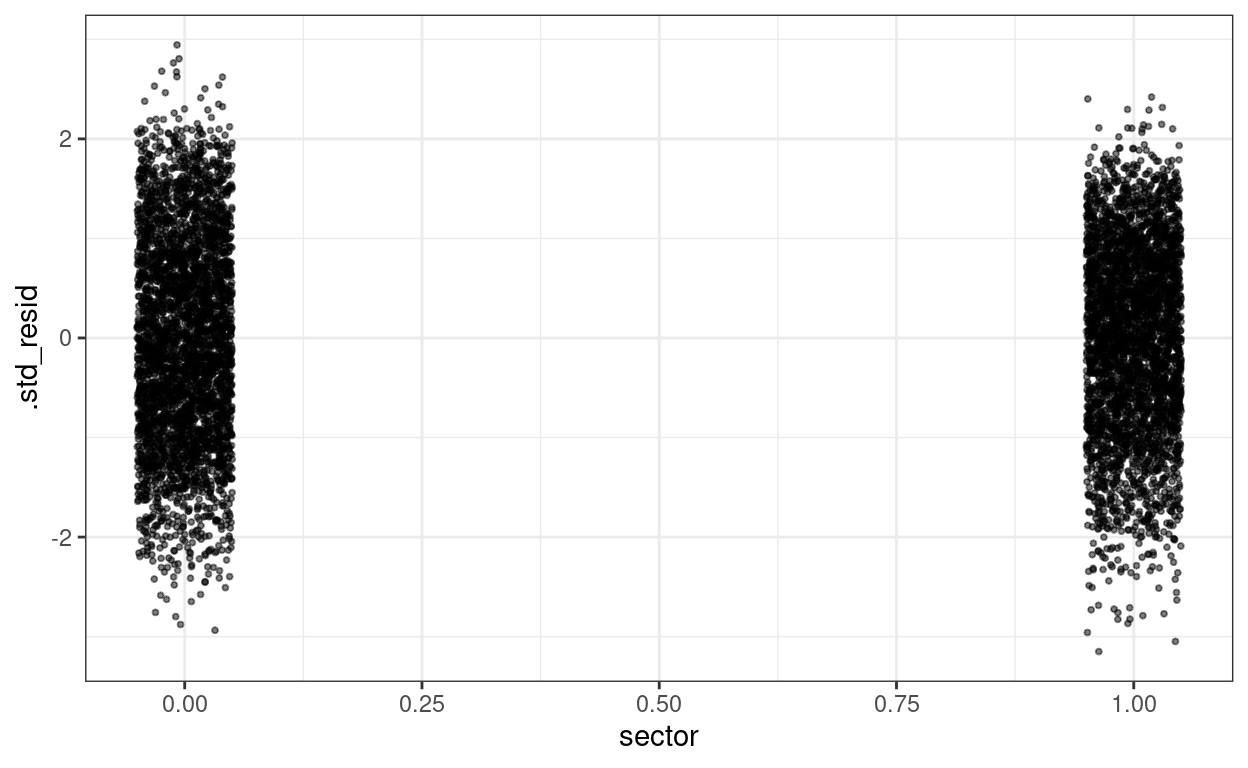
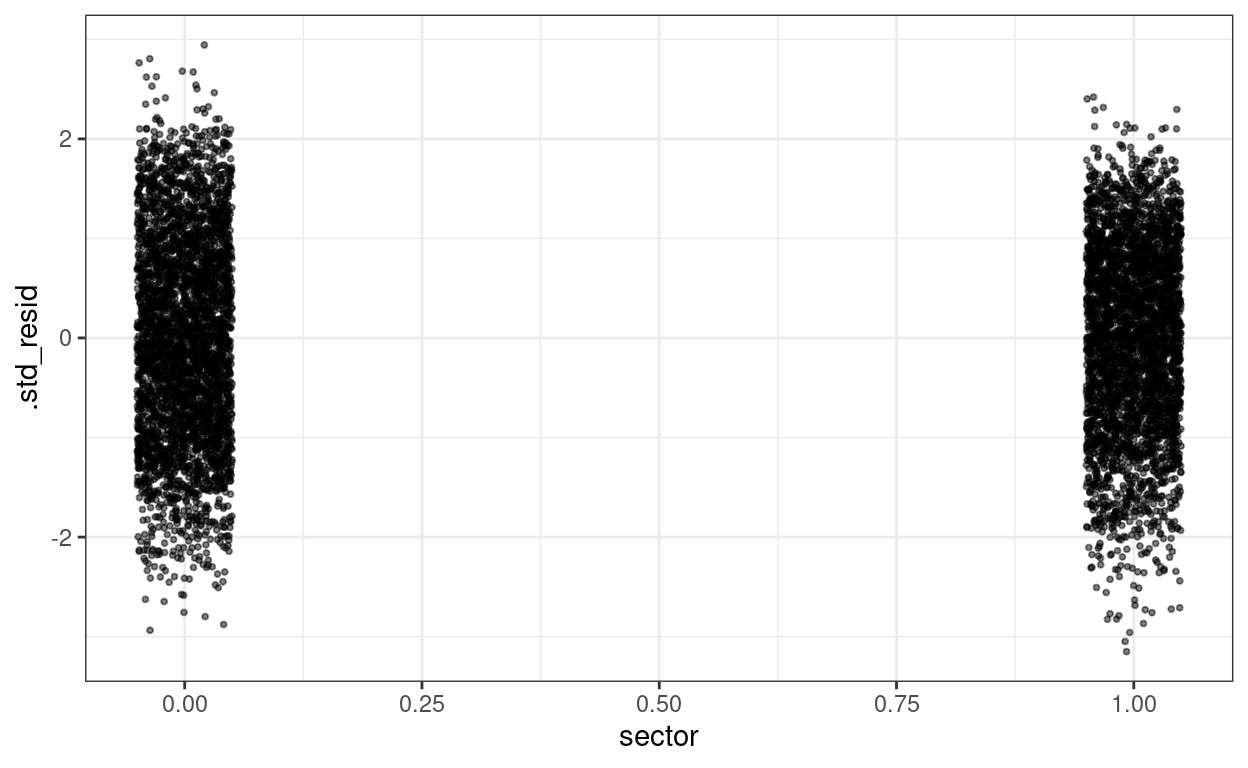
Update materials for heteroscedasticity

Changed region(s): [[0.8438, 0.125, 0.9688, 0.875], [0.0938, 0.0625, 0.1875, 0.8125]]

diff --git a/_site/rcode6.html b/_site/rcode6.html
@@ -2142,6 +2142,8 @@ R Codes
 <li><a href="#residuals-across-clusters">Residuals across clusters</a></li>
 <li><a href="#level-1-residuals-across-predictors">Level-1 residuals across predictors</a></li>
 <li><a href="#level-2-residuals-across-lv-2-predictors">Level-2 residuals across lv-2 predictors</a></li>
+<li><a href="#bonus-modeling-heteroscedastisticity">Bonus: Modeling heteroscedastisticity</a></li>
+<li><a href="#bonus-heteroscedasticity-consistent-hc-variance-estimates">Bonus: Heteroscedasticity-consistent (HC) variance estimates</a></li>
 <li><a href="#q-q-plot-for-lv-1-residuals">Q-Q Plot for Lv-1 Residuals</a></li>
 <li><a href="#q-q-plot-for-lv-2-residuals">Q-Q Plot for Lv-2 Residuals</a></li>
 </ul></li>
@@ -2452,6 +2454,292 @@ R Codes
 </div>
 <p><img src="rcode6_files/figure-html5/resid-lv2-2.png" width="624" /></p>
 </div>
+<h3 id="bonus-modeling-heteroscedastisticity">Bonus: Modeling heteroscedastisticity</h3>
+<p>You can model <span class="math inline">\(\log(\sigma_{ij}) = \gamma^{s}_{00} + \gamma^{s}_{10} x_{ij} + \gamma^{s}_{01} w_{j}\)</span></p>
+<p>Let’s model the variance as a function of <code>sector</code>.</p>
+<div class="layout-chunk" data-layout="l-body">
+<div class="sourceCode">
+<pre class="sourceCode r"><code class="sourceCode r"><span class='kw'><a href='https://rdrr.io/r/base/library.html'>library</a></span><span class='op'>(</span><span class='va'><a href='https://github.com/glmmTMB/glmmTMB'>glmmTMB</a></span><span class='op'>)</span>
+<span class='co'># Assume homoscedasticity</span>
+<span class='va'>m3_tmb</span> <span class='op'>&lt;-</span> <span class='fu'><a href='https://rdrr.io/pkg/glmmTMB/man/glmmTMB.html'>glmmTMB</a></span><span class='op'>(</span><span class='va'>mathach</span> <span class='op'>~</span> <span class='va'>sector</span> <span class='op'>+</span> <span class='va'>ses</span> <span class='op'>+</span> <span class='va'>ses_cm</span> <span class='op'>+</span> <span class='op'>(</span><span class='va'>ses</span> <span class='op'>|</span> <span class='va'>id</span><span class='op'>)</span>,
+  data <span class='op'>=</span> <span class='va'>hsball</span>
+<span class='op'>)</span>
+<span class='co'># Modeling heteroscedasticity</span>
+<span class='va'>m3_heter_tmb</span> <span class='op'>&lt;-</span> <span class='fu'><a href='https://rdrr.io/pkg/glmmTMB/man/glmmTMB.html'>glmmTMB</a></span><span class='op'>(</span>
+  <span class='va'>mathach</span> <span class='op'>~</span> <span class='va'>sector</span> <span class='op'>+</span> <span class='va'>ses</span> <span class='op'>+</span> <span class='va'>ses_cm</span> <span class='op'>+</span> <span class='op'>(</span><span class='va'>ses</span> <span class='op'>|</span> <span class='va'>id</span><span class='op'>)</span>,
+  dispformula <span class='op'>=</span> <span class='op'>~</span> <span class='va'>sector</span>,  <span class='co'># difference variance for different sectors</span>
+  data <span class='op'>=</span> <span class='va'>hsball</span>
+<span class='op'>)</span>
+<span class='fu'><a href='https://rdrr.io/r/base/summary.html'>summary</a></span><span class='op'>(</span><span class='va'>m3_heter_tmb</span><span class='op'>)</span>  <span class='co'># catholic school has a larger variance</span>
+</code></pre>
+</div>
+<pre><code>&gt;#  Family: gaussian  ( identity )
+&gt;# Formula:          mathach ~ sector + ses + ses_cm + (ses | id)
+&gt;# Dispersion:               ~sector
+&gt;# Data: hsball
+&gt;# 
+&gt;#      AIC      BIC   logLik deviance df.resid 
+&gt;#  46531.3  46593.2 -23256.6  46513.3     7176 
+&gt;# 
+&gt;# Random effects:
+&gt;# 
+&gt;# Conditional model:
+&gt;#  Groups   Name        Variance Std.Dev. Corr 
+&gt;#  id       (Intercept) 2.372    1.5402        
+&gt;#           ses         0.458    0.6767   0.21 
+&gt;#  Residual                NA        NA        
+&gt;# Number of obs: 7185, groups:  id, 160
+&gt;# 
+&gt;# Conditional model:
+&gt;#             Estimate Std. Error z value Pr(&gt;|z|)    
+&gt;# (Intercept)  12.0682     0.2189   55.12  &lt; 2e-16 ***
+&gt;# sector        1.3528     0.3609    3.75 0.000178 ***
+&gt;# ses           2.1476     0.1227   17.51  &lt; 2e-16 ***
+&gt;# ses_cm        3.2171     0.3982    8.08 6.55e-16 ***
+&gt;# ---
+&gt;# Signif. codes:  0 &#39;***&#39; 0.001 &#39;**&#39; 0.01 &#39;*&#39; 0.05 &#39;.&#39; 0.1 &#39; &#39; 1
+&gt;# 
+&gt;# Dispersion model:
+&gt;#             Estimate Std. Error z value Pr(&gt;|z|)    
+&gt;# (Intercept)  3.69133    0.02391  154.40  &lt; 2e-16 ***
+&gt;# sector      -0.18333    0.03400   -5.39 6.96e-08 ***
+&gt;# ---
+&gt;# Signif. codes:  0 &#39;***&#39; 0.001 &#39;**&#39; 0.01 &#39;*&#39; 0.05 &#39;.&#39; 0.1 &#39; &#39; 1</code></pre>
+<div class="sourceCode">
+<pre class="sourceCode r"><code class="sourceCode r"><span class='co'># Compare the two models</span>
+<span class='fu'><a href='https://rdrr.io/r/stats/anova.html'>anova</a></span><span class='op'>(</span><span class='va'>m3_tmb</span>, <span class='va'>m3_heter_tmb</span><span class='op'>)</span>  <span class='co'># the heteroscedastic model has a better deviance</span>
+</code></pre>
+</div>
+<pre><code>&gt;# Data: hsball
+&gt;# Models:
+&gt;# m3_tmb: mathach ~ sector + ses + ses_cm + (ses | id), zi=~0, disp=~1
+&gt;# m3_heter_tmb: mathach ~ sector + ses + ses_cm + (ses | id), zi=~0, disp=~sector
+&gt;#              Df   AIC   BIC logLik deviance  Chisq Chi Df Pr(&gt;Chisq)
+&gt;# m3_tmb        8 46558 46613 -23271    46542                         
+&gt;# m3_heter_tmb  9 46531 46593 -23257    46513 29.009      1  7.203e-08
+&gt;#                 
+&gt;# m3_tmb          
+&gt;# m3_heter_tmb ***
+&gt;# ---
+&gt;# Signif. codes:  0 &#39;***&#39; 0.001 &#39;**&#39; 0.01 &#39;*&#39; 0.05 &#39;.&#39; 0.1 &#39; &#39; 1</code></pre>
+<div class="sourceCode">
+<pre class="sourceCode r"><code class="sourceCode r"><span class='co'># The fixed effects are pretty comparable</span>
+<span class='fu'><a href='https://vincentarelbundock.github.io/modelsummary/reference/msummary.html'>msummary</a></span><span class='op'>(</span><span class='fu'><a href='https://rdrr.io/r/base/list.html'>list</a></span><span class='op'>(</span>
+  `Homoscedastic` <span class='op'>=</span> <span class='va'>m3_tmb</span>,
+  `Heteroscedastic` <span class='op'>=</span> <span class='va'>m3_heter_tmb</span>
+<span class='op'>)</span><span class='op'>)</span>
+</code></pre>
+</div>
+<table class="table" style="width: auto !important; margin-left: auto; margin-right: auto;">
+<thead>
+<tr>
+<th style="text-align:left;">
+</th>
+<th style="text-align:center;">
+Homoscedastic
+</th>
+<th style="text-align:center;">
+Heteroscedastic
+</th>
+</tr>
+</thead>
+<tbody>
+<tr>
+<td style="text-align:left;">
+(Intercept)
+</td>
+<td style="text-align:center;">
+12.044
+</td>
+<td style="text-align:center;">
+12.068
+</td>
+</tr>
+<tr>
+<td style="text-align:left;">
+</td>
+<td style="text-align:center;">
+(0.216)
+</td>
+<td style="text-align:center;">
+(0.219)
+</td>
+</tr>
+<tr>
+<td style="text-align:left;">
+sector
+</td>
+<td style="text-align:center;">
+1.409
+</td>
+<td style="text-align:center;">
+1.353
+</td>
+</tr>
+<tr>
+<td style="text-align:left;">
+</td>
+<td style="text-align:center;">
+(0.360)
+</td>
+<td style="text-align:center;">
+(0.361)
+</td>
+</tr>
+<tr>
+<td style="text-align:left;">
+ses
+</td>
+<td style="text-align:center;">
+2.196
+</td>
+<td style="text-align:center;">
+2.148
+</td>
+</tr>
+<tr>
+<td style="text-align:left;">
+</td>
+<td style="text-align:center;">
+(0.122)
+</td>
+<td style="text-align:center;">
+(0.123)
+</td>
+</tr>
+<tr>
+<td style="text-align:left;">
+ses_cm
+</td>
+<td style="text-align:center;">
+3.151
+</td>
+<td style="text-align:center;">
+3.217
+</td>
+</tr>
+<tr>
+<td style="text-align:left;">
+</td>
+<td style="text-align:center;">
+(0.396)
+</td>
+<td style="text-align:center;">
+(0.398)
+</td>
+</tr>
+<tr>
+<td style="text-align:left;">
+sd__(Intercept)
+</td>
+<td style="text-align:center;">
+1.538
+</td>
+<td style="text-align:center;">
+1.540
+</td>
+</tr>
+<tr>
+<td style="text-align:left;">
+sd__ses
+</td>
+<td style="text-align:center;">
+0.675
+</td>
+<td style="text-align:center;">
+0.677
+</td>
+</tr>
+<tr>
+<td style="text-align:left;">
+cor__(Intercept).ses
+</td>
+<td style="text-align:center;">
+0.276
+</td>
+<td style="text-align:center;">
+0.205
+</td>
+</tr>
+<tr>
+<td style="text-align:left;box-shadow: 0px 1px">
+sd__Observation
+</td>
+<td style="text-align:center;box-shadow: 0px 1px">
+6.065
+</td>
+<td style="text-align:center;box-shadow: 0px 1px">
+</td>
+</tr>
+<tr>
+<td style="text-align:left;">
+AIC
+</td>
+<td style="text-align:center;">
+46558.3
+</td>
+<td style="text-align:center;">
+46531.3
+</td>
+</tr>
+<tr>
+<td style="text-align:left;">
+BIC
+</td>
+<td style="text-align:center;">
+46613.3
+</td>
+<td style="text-align:center;">
+46593.2
+</td>
+</tr>
+<tr>
+<td style="text-align:left;">
+Log.Lik.
+</td>
+<td style="text-align:center;">
+−23271.137
+</td>
+<td style="text-align:center;">
+−23256.632
+</td>
+</tr>
+</tbody>
+</table>
+</div>
+<h3 id="bonus-heteroscedasticity-consistent-hc-variance-estimates">Bonus: Heteroscedasticity-consistent (HC) variance estimates</h3>
+<p>If you suspect that heteroscedastisticity may be a problem, you can also use the heteroskedasticity-consistent variance estimators with the <code>clubSandwich</code> package, which computes the HC correction for the test results</p>
+<div class="layout-chunk" data-layout="l-body">
+<div class="sourceCode">
+<pre class="sourceCode r"><code class="sourceCode r"><span class='kw'><a href='https://rdrr.io/r/base/library.html'>library</a></span><span class='op'>(</span><span class='va'><a href='https://github.com/jepusto/clubSandwich'>clubSandwich</a></span><span class='op'>)</span>
+<span class='co'># Sampling variances of fixed effects from REML</span>
+<span class='va'>vcov_m3</span> <span class='op'>&lt;-</span> <span class='fu'><a href='https://rdrr.io/r/stats/vcov.html'>vcov</a></span><span class='op'>(</span><span class='va'>m3</span><span class='op'>)</span>
+<span class='co'># Sampling variances from HC</span>
+<span class='va'>vcovcr_m3</span> <span class='op'>&lt;-</span> <span class='fu'><a href='https://rdrr.io/pkg/clubSandwich/man/vcovCR.html'>vcovCR</a></span><span class='op'>(</span><span class='va'>m3</span>, type <span class='op'>=</span> <span class='st'>"CR2"</span><span class='op'>)</span>
+<span class='co'># Compare standard errors: REML-SE and HC-SE</span>
+<span class='fu'><a href='https://rdrr.io/r/base/cbind.html'>cbind</a></span><span class='op'>(</span>
+  <span class='st'>"REML-SE"</span> <span class='op'>=</span> <span class='fu'><a href='https://rdrr.io/r/base/MathFun.html'>sqrt</a></span><span class='op'>(</span><span class='fu'><a href='https://rdrr.io/r/base/diag.html'>diag</a></span><span class='op'>(</span><span class='va'>vcov_m3</span><span class='op'>)</span><span class='op'>)</span>,
+  <span class='st'>"HC-SE"</span> <span class='op'>=</span> <span class='fu'><a href='https://rdrr.io/r/base/MathFun.html'>sqrt</a></span><span class='op'>(</span><span class='fu'><a href='https://rdrr.io/r/base/diag.html'>diag</a></span><span class='op'>(</span><span class='va'>vcovcr_m3</span><span class='op'>)</span><span class='op'>)</span>
+<span class='op'>)</span>
+</code></pre>
+</div>
+<pre><code>&gt;#               REML-SE     HC-SE
+&gt;# (Intercept) 0.2016592 0.1779908
+&gt;# sector      0.3090955 0.3157639
+&gt;# ses         0.1223825 0.1287679
+&gt;# ses_cm      0.3880834 0.3659749</code></pre>
+<div class="sourceCode">
+<pre class="sourceCode r"><code class="sourceCode r"><span class='co'># Testing fixed effects adjusting for heteroscedasticity</span>
+<span class='fu'><a href='https://rdrr.io/pkg/clubSandwich/man/coef_test.html'>coef_test</a></span><span class='op'>(</span><span class='va'>m3</span>, vcov <span class='op'>=</span> <span class='st'>"CR2"</span><span class='op'>)</span>
+</code></pre>
+</div>
+<pre><code>&gt;#         Coef. Estimate    SE t-stat  d.f. p-val (Satt) Sig.
+&gt;# 1 (Intercept)    12.04 0.178  67.66  84.8       &lt;0.001  ***
+&gt;# 2      sector     1.41 0.316   4.46  99.0       &lt;0.001  ***
+&gt;# 3         ses     2.20 0.129  17.05 146.9       &lt;0.001  ***
+&gt;# 4      ses_cm     3.16 0.366   8.62  62.2       &lt;0.001  ***</code></pre>
+</div>
+<p>Note: To my knowledge, currently it is not possible to combine HC estimator with the small-sample Kenward-Roger correction.</p>
 <h3 id="q-q-plot-for-lv-1-residuals">Q-Q Plot for Lv-1 Residuals</h3>
 <p>For: normality</p>
 <p>You want to see the points line up nicely along the 45 degree line</p>
@@ -2472,7 +2760,7 @@ R Codes
 <pre class="sourceCode r"><code class="sourceCode r"><span class='co'># the code is a bit more complex in order to add the reference line, but you </span>
 <span class='co'># only need to replace `m3` with the name of your own model to get the</span>
 <span class='co'># plots for your own analyses</span>
-<span class='fu'><a href='https://rdrr.io/pkg/lattice/man/qqmath.html'>qqmath</a></span><span class='op'>(</span><span class='fu'><a href='https://rdrr.io/pkg/lme4/man/ranef.html'>ranef</a></span><span class='op'>(</span><span class='va'>m3</span>, condVar <span class='op'>=</span> <span class='cn'>FALSE</span><span class='op'>)</span>,
+<span class='fu'><a href='https://rdrr.io/pkg/lattice/man/qqmath.html'>qqmath</a></span><span class='op'>(</span><span class='fu'><a href='https://rdrr.io/pkg/glmmTMB/man/ranef.glmmTMB.html'>ranef</a></span><span class='op'>(</span><span class='va'>m3</span>, condVar <span class='op'>=</span> <span class='cn'>FALSE</span><span class='op'>)</span>,
        panel <span class='op'>=</span> <span class='kw'>function</span><span class='op'>(</span><span class='va'>x</span><span class='op'>)</span> <span class='op'>{</span>
          <span class='fu'><a href='https://rdrr.io/pkg/lattice/man/panel.qqmath.html'>panel.qqmath</a></span><span class='op'>(</span><span class='va'>x</span><span class='op'>)</span>
          <span class='fu'><a href='https://rdrr.io/pkg/lattice/man/panel.qqmathline.html'>panel.qqmathline</a></span><span class='op'>(</span><span class='va'>x</span><span class='op'>)</span>
@@ -3223,8 +3511,8 @@ REMLcrit
 </table>
 </div>
 <p>If the two are similar, then the REML results should be fine. Otherwise, as is the case here, the Bayesian result should be more trustworthy.</p>
-<div class="sourceCode" id="cb11"><pre class="sourceCode r distill-force-highlighting-css"><code class="sourceCode r"></code></pre></div>
-<div class="sourceCode" id="cb12"><pre class="sourceCode r distill-force-highlighting-css"><code class="sourceCode r"></code></pre></div>
+<div class="sourceCode" id="cb15"><pre class="sourceCode r distill-force-highlighting-css"><code class="sourceCode r"></code></pre></div>
+<div class="sourceCode" id="cb16"><pre class="sourceCode r distill-force-highlighting-css"><code class="sourceCode r"></code></pre></div>
 <!--radix_placeholder_article_footer-->
 <!--/radix_placeholder_article_footer-->
 </div>
